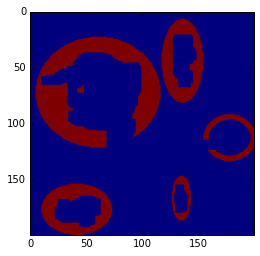
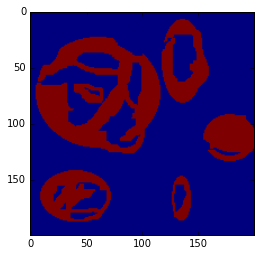
donut blog post corrections

diff --git a/_posts/2015-12-31-How-to-fill-a-Donut.md b/_posts/2015-12-31-How-to-fill-a-Donut.md
@@ -4,7 +4,7 @@ layout: post
 title: How to fill a Donut
 ---
 
-When you are classifying pixels in satellite images you often encounter the dreaded artefact commonly referred to as _Donut_. A good example is the classification of lakes where you are not able to correctly classify the complete shoreline (resulting in non-closed circles or _Open Donuts_) and remaining pixels in the wrong class which make up the _Hole_ inside the Donut. Recently a question popped up on GIS.Stackexchange on [_How to transform raster donuts to circles_](http://gis.stackexchange.com/questions/174087/transform-raster-donuts-to-circles/174101#174101) **This problem can be solved with the use of [mathematical morphology](https://en.wikipedia.org/wiki/Mathematical_morphology#Closing), _closing_ to be precise.**
+When you are classifying pixels in satellite images you often encounter the dreaded artefact commonly referred to as _Donut_. A good example is the classification of lakes where you are not able to correctly classify the complete shoreline (resulting in non-closed circles or _Open Donuts_) and remaining pixels in the wrong class which make up the _Hole_ inside the Donut. Recently a question popped up on GIS.Stackexchange on [_How to transform raster donuts to circles_](http://gis.stackexchange.com/questions/174087/transform-raster-donuts-to-circles/174101#174101) **This problem can be solved with the use of [mathematical morphology](https://en.wikipedia.org/wiki/Mathematical_morphology#Closing).**
 
 ## Donuts
 Here we are working with an example image but really any dataset that can be read into a binary numpy array will work.
@@ -21,13 +21,12 @@ donut_image = donut_image.astype(np.int8)
 
 plt.imshow(donut_image)
 ```
+![png]({{ site.baseurl }}/media/donut_plot.png)
 
 You can see there are open structures, closed ones - artefacts just like you'd expect when you try to classify lakes in an image.
 
-![png]({{ site.baseurl }}/media/donut_plot.png)
-
 ## Closing
-First we are looking to close the holes. Working with a binary image any package including mathematical morphology algorithms should work. This is an example using [`scipy.ndimage.morphology`](http://docs.scipy.org/doc/scipy/reference/ndimage.html#module-scipy.ndimage.morphology).
+First we are looking to close the gaps in the outer rings. Working with a binary image any package including mathematical morphology algorithms should work. This is an example using [`scipy.ndimage.morphology`](http://docs.scipy.org/doc/scipy/reference/ndimage.html#module-scipy.ndimage.morphology).
 
 ```python
 from scipy.ndimage.morphology import binary_closing
@@ -35,10 +34,9 @@ from scipy.ndimage.morphology import binary_closing
 donut_closed = binary_closing(donut_image, structure=np.ones((3,2)))
 plt.imshow(donut_closed)
 ```
+![png]({{ site.baseurl }}/media/donut_plot_closed.png)
 
 All the gaps in the outer borders are now closed, but the holes of the donut are still intact. The structure used to dilate and erode the structures needs to be adapted to the size of the gaps - this might involve a bit of trial and error.
-
-![png]({{ site.baseurl }}/media/donut_plot_closed.png)
 
 ## Filling
 In a last step we just need to fill the remaining _Donut Holes_ and get the desired result.
@@ -49,5 +47,4 @@ from scipy.ndimage.morphology import binary_closing
 donut_filled = binary_fill_holes(donut_closed)
 plt.imshow(donut_filled)
 ```
-
 ![png]({{ site.baseurl }}/media/donut_plot_filled.png)
